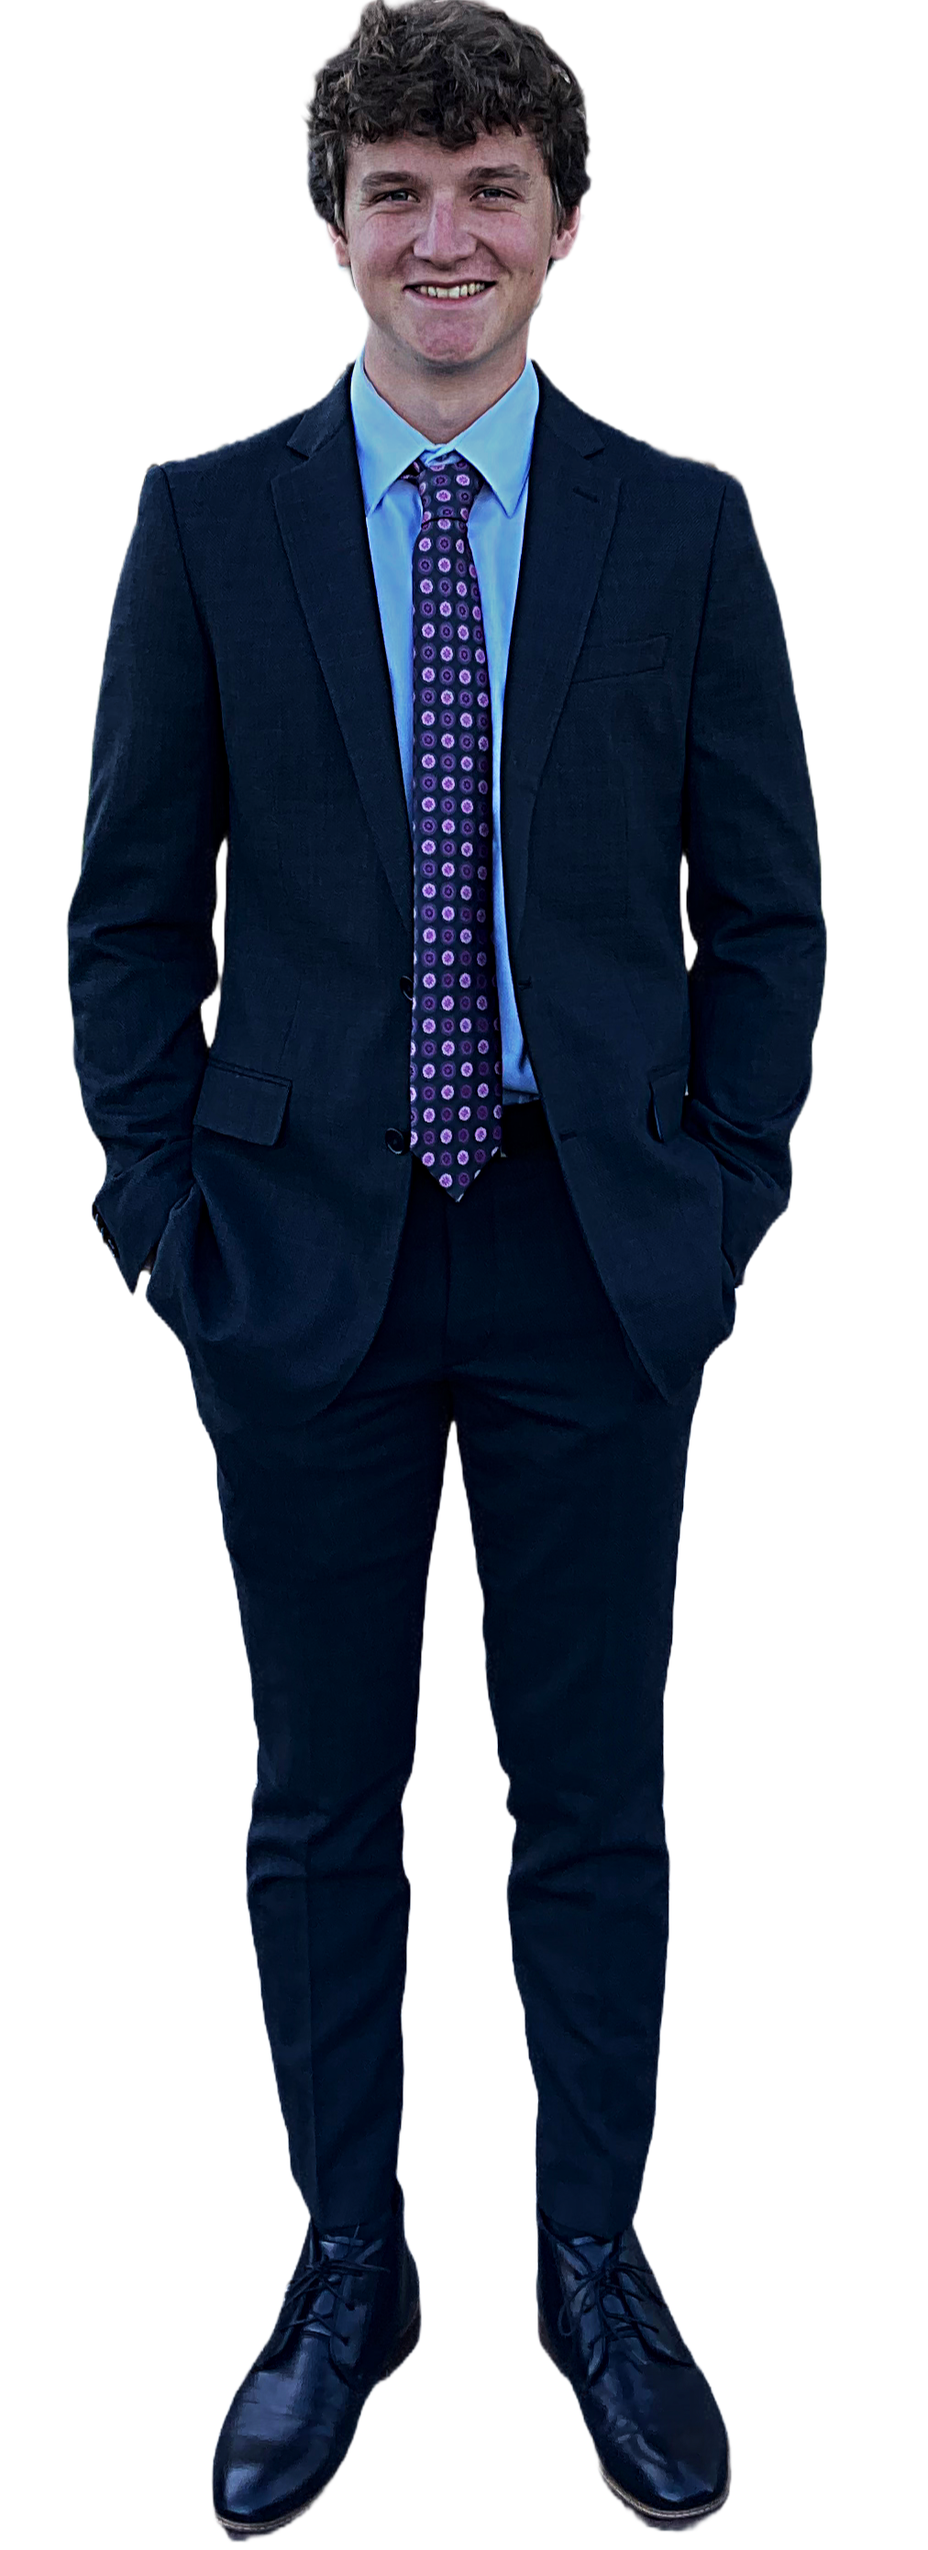
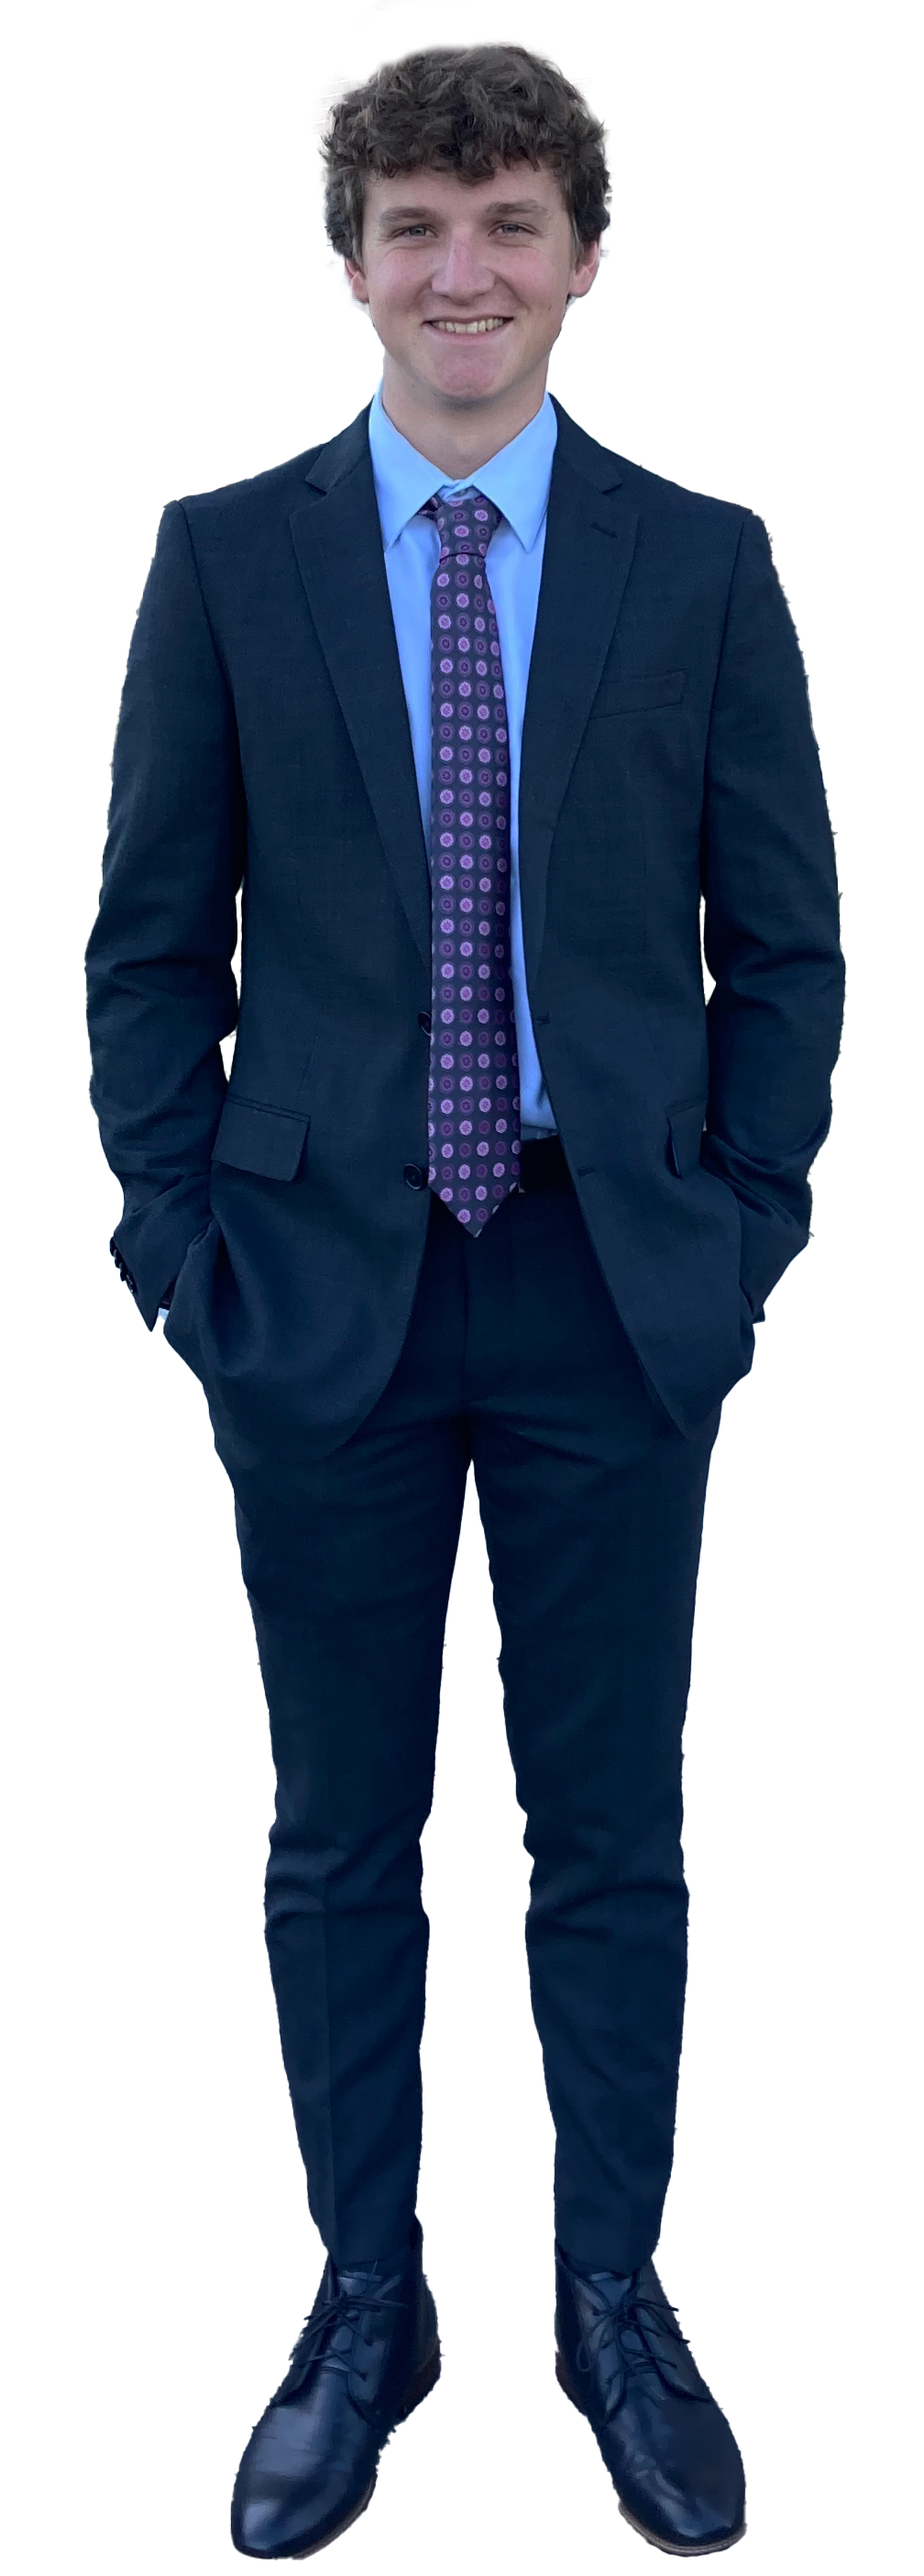
added about section, edited photos and added reduce motion media query

Changed region(s): [[0.0615, 0.0, 0.9226, 1.0], [0.5228, 0.5259, 0.6766, 0.5878], [0.6151, 0.6496, 0.6458, 0.6806]]

diff --git a/index.html b/index.html
@@ -16,7 +16,7 @@
 
     <nav class="nav-drawer">
       <a href="#home">Home</a>
-      <a href="#education">Education</a>
+      <a href="#about">About</a>
       <a href="#projects">Projects</a>
       <a href="#contact">Contact</a>
     </nav>
@@ -30,7 +30,7 @@
 
       <nav class="navbar">
         <a href="#home">Home</a>
-        <a href="#education">Education</a>
+        <a href="#about">About</a>
         <a href="#projects">Projects</a>
         <a href="#contact">Contact</a>
       </nav>
@@ -76,8 +76,23 @@
       </div>
     </section>
 
-    <section class="education" id="education">
-      <h1>Education</h1>
+    <section class="about" id="about">
+      <div class="about-content">
+        <h1>About Me</h1>
+        <p>
+          I'm a motivated software developer currently studying at the
+          University of Cincinnati. My passion for coding drives me to
+          continually learn and improve my skills, both in and out of the
+          classroom. When I'm not programming, I enjoy spending my time
+          outdoors, whether it's golfing, skiing, or hiking. I'm also like to
+          play Rocket League and love challenging myself to pick up new skills
+          and hobbies whenever I can. Always striving for growth, I approach
+          every task with enthusiasm and a desire to innovate.
+        </p>
+      </div>
+      <div class="about-img">
+        <img src="assets/simon_close_up.png" />
+      </div>
     </section>
     <script src="script.js"></script>
   </body>

diff --git a/styles.css b/styles.css
@@ -188,7 +188,7 @@ body {
 
 section {
   min-height: 100vh;
-  padding: 10rem 12% 0px;
+  padding: 10rem 12%;
 }
 .home {
   padding: 20rem 12% 0px;
@@ -327,7 +327,39 @@ span {
   }
 }
 
-.education {
+h1 {
+  font-size: 4rem;
+  margin-bottom: 0.7rem;
+  font-weight: 800;
+}
+
+p {
+  font-size: 2rem;
+}
+
+.about {
+  display: flex;
+  justify-content: space-between;
+  align-items: center;
+  gap: 100px;
+}
+
+.about-content {
+  width: 40%;
+}
+
+.about-content p {
+  line-height: 1.3;
+}
+
+.about-img {
+  position: relative;
+  display: inline-block;
+}
+
+.about-img img {
+  width: 500px;
+  filter: drop-shadow(-10px -5px orange);
 }
 
 @media screen and (max-width: 1200px) {
@@ -374,5 +406,19 @@ span {
 @media screen and (max-width: 570px) {
   .home h1 {
     font-size: 4.5rem;
+  }
+}
+
+@media (prefers-reduced-motion: reduce) {
+  *,
+  ::before,
+  ::after {
+    animation-delay: -1ms !important;
+    animation-duration: 1ms !important;
+    animation-iteration-count: 1 !important;
+    background-attachment: initial !important;
+    scroll-behavior: auto !important;
+    transition-duration: 1ms !important;
+    transition-delay: -1ms !important;
   }
 }

diff --git a/script.js b/script.js
@@ -32,7 +32,7 @@ window.addEventListener("scroll", (e) => {
   progress.style.height = progressHeight + "%";
 
   if (scrollPosition > 50) {
-    header.style.backgroundColor = "#0000001a";
+    header.style.backgroundColor = "#0000004d";
     header.style.backdropFilter = "blur(5px)";
 
     headerLogo.style.opacity = 100;
